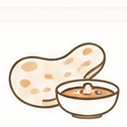
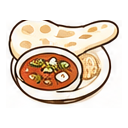
残り28ジャンルもカラー版に差し替え（v256）
- いただいた5枚目の画像から28種を切り出して差し替え:
  麺類8（ラーメン〜焼きそば）・寿司・海鮮・魚介・日本料理・焼肉・ステーキ・
  中華料理・韓国料理・タイ料理・インド料理・カレー・洋食7（洋食〜パン）・
  カフェメニュー・スイーツ・和菓子
- これでカテゴリー・ジャンルの全71種のイラストがカラーテイストで統一
  （「すべて」タイルのグリッド記号のみ従来どおり。元からオレンジで色調は一致）
- カテゴリータイルは代表ジャンルの絵を共用しているため自動でカラーに切り替わる

Claude-Session: https://claude.ai/code/session_01GEqjKcnn3Do9W8xgTRJahc

diff --git a/index.html b/index.html
@@ -22,7 +22,7 @@
 <link rel="stylesheet" href="https://fonts.googleapis.com/css2?family=Poppins:wght@700&family=Shippori+Mincho:wght@500;600;700&display=swap">
 <link rel="stylesheet" href="https://unpkg.com/maplibre-gl@4.7.1/dist/maplibre-gl.css">
 <!-- ?v= はアプリのバージョンと合わせて更新する（古いキャッシュの混在防止） -->
-<link rel="stylesheet" href="css/style.css?v=255">
+<link rel="stylesheet" href="css/style.css?v=256">
 </head>
 <body>
 
@@ -536,11 +536,11 @@
 <script src="https://unpkg.com/maplibre-gl@4.7.1/dist/maplibre-gl.js"></script>
 <script src="https://cdn.jsdelivr.net/npm/exifr/dist/full.umd.js"></script>
 <script src="https://cdn.jsdelivr.net/npm/chart.js@4.4.9/dist/chart.umd.min.js"></script>
-<script src="js/store.js?v=255"></script>
-<script src="js/api.js?v=255"></script>
-<script src="js/cloud.js?v=255"></script>
-<script src="js/register.js?v=255"></script>
-<script src="js/views.js?v=255"></script>
-<script src="js/app.js?v=255"></script>
+<script src="js/store.js?v=256"></script>
+<script src="js/api.js?v=256"></script>
+<script src="js/cloud.js?v=256"></script>
+<script src="js/register.js?v=256"></script>
+<script src="js/views.js?v=256"></script>
+<script src="js/app.js?v=256"></script>
 </body>
 </html>

diff --git a/sw.js b/sw.js
@@ -5,7 +5,7 @@
 //  - CDNライブラリ・地図タイル: キャッシュ優先
 //  - 外部API（店舗検索・AI判定）: キャッシュしない
 // =====================================================
-const VERSION = 'v255'; // 和食・中華・スイーツなど43ジャンルの絵をカラー版に差し替え
+const VERSION = 'v256'; // 残り28ジャンルもカラー版に差し替え（全ジャンル統一）
 const CACHE = 'gourmet-' + VERSION;
 
 // index.html の ?v= と揃える（古いキャッシュの混在防止）

diff --git a/js/api.js b/js/api.js
@@ -602,7 +602,7 @@ out center 25;`;
 
   return {
     // このファイル自身のバージョン（設定画面でキャッシュ混在を検出するために表示）
-    FILE_VERSION: 'v255',
+    FILE_VERSION: 'v256',
     DISH_GENRES, DISH_CATEGORIES, buildGenrePicker, SHOP_GENRES, parseExif, nearbyShops, nearestStation,
     reverseGeocode, searchPlaces, suggestPlaces, searchShopsFast, searchShopsNearby, suggestShops, mergeCandidates,
     guessGenres, compressImage, fileHash,

diff --git a/js/app.js b/js/app.js
@@ -3,7 +3,7 @@
 // =====================================================
 const App = (() => {
   const $ = (sel) => document.querySelector(sel);
-  const APP_VERSION = 'v255'; // sw.js の VERSION・index.html の ?v= と合わせる
+  const APP_VERSION = 'v256'; // sw.js の VERSION・index.html の ?v= と合わせる
   let currentTab = 'register';
 
   function init() {
